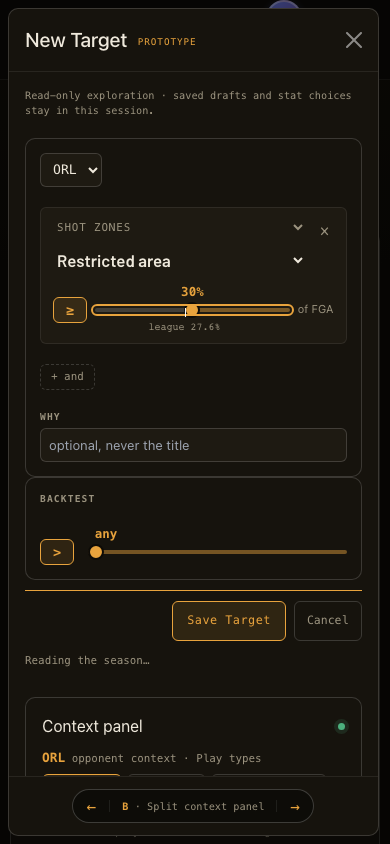
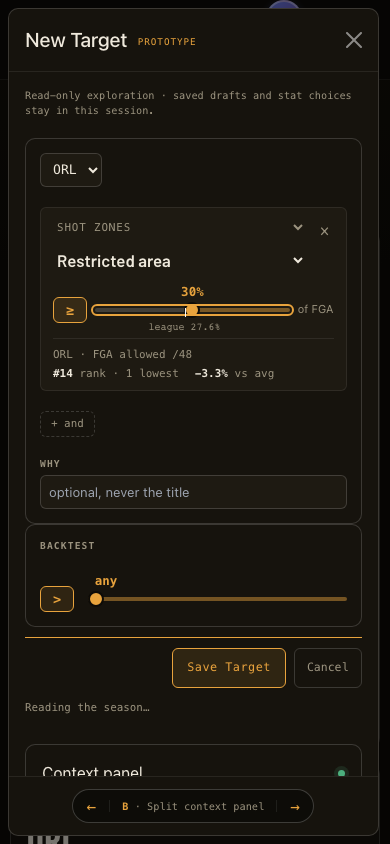
Add opponent rank to qualifier cards and keep minutes filter left

diff --git a/src/targets/TeamContextPrototype.js b/src/targets/TeamContextPrototype.js
@@ -1016,3 +1016,70 @@ export default function TeamContextPrototype({
     </>
   );
 }
+
+// Inline evidence is read independently of the browsing panel's selected category.
+export function QualifierOpponentContext({ team, opponent, qualifier, teamsLoading }) {
+  const category = {
+    play_types: 'Playtypes',
+    shot_zones: 'Zone Shooting',
+    assist_locations: 'Assists',
+    shot_types: 'Shooting Type',
+  }[qualifier.base];
+  const [profile, setProfile] = useState(null);
+  const [failed, setFailed] = useState(false);
+  useEffect(() => {
+    if (!team || !category) return undefined;
+    const controller = new AbortController();
+    setProfile(null);
+    setFailed(false);
+    apiClient
+      .get(getApiUrl('TEAM_STATS'), {
+        params: { team, category },
+        signal: controller.signal,
+      })
+      .then(({ data }) => setProfile(parseStats(data)))
+      .catch((error) => {
+        if (!isRequestCancelled(error)) setFailed(true);
+      });
+    return () => controller.abort();
+  }, [team, category]);
+  const row =
+    category &&
+    statRowsFor(category, profile).find(
+      (item) =>
+        item.targetBase === qualifier.base &&
+        item.targetSlice === qualifier.sliceKey &&
+        (qualifier.base !== 'shot_types' || item.rawKey === 'PTS'),
+    );
+  const metric =
+    qualifier.base === 'play_types'
+      ? 'PPP allowed'
+      : qualifier.base === 'shot_types'
+        ? 'Points allowed /48'
+        : qualifier.base === 'shot_zones'
+          ? 'FGA allowed /48'
+          : 'Assists allowed';
+  return (
+    <div className="target-qualifier-opponent" aria-label={`${opponent} opponent context`}>
+      <span className="target-qualifier-opponent-label">
+        {opponent} · {metric}
+      </span>
+      {row ? (
+        <>
+          <span title="League rank: 1 is lowest, 30 is highest">
+            <b>{Number.isFinite(row.rank) ? `#${Math.round(row.rank)}` : '—'}</b> rank · 1 lowest
+          </span>
+          <span>
+            <b>{formatLeagueComparison(category, row)}</b> vs avg
+          </span>
+        </>
+      ) : (
+        <span>
+          {failed || profile || (!team && !teamsLoading)
+            ? 'Context unavailable'
+            : 'Loading context…'}
+        </span>
+      )}
+    </div>
+  );
+}

diff --git a/src/targets/TargetContextPrototype.js b/src/targets/TargetContextPrototype.js
@@ -3,9 +3,9 @@ import { Modal } from 'react-bootstrap';
 import { useSearchParams } from 'react-router-dom';
 import TargetForm, { blankTargetDraft } from './TargetForm';
 import TargetLab from './TargetLab';
-import { TargetBacktestRows } from './TargetConditions';
 import {
   codeForTeam,
+  QualifierOpponentContext,
   qualifierFor,
   ReadControls,
   SourceNote,
@@ -172,7 +172,15 @@ function TargetContextLayouts({
       submitLabel={submitLabel}
       showActions={showActions}
       cancelLabel={cancelLabel}
-      showBacktestControls={!workbench}
+      qualifierContext={(qualifier) => (
+        <QualifierOpponentContext
+          key={`${draft.opponent}:${qualifier.base}`}
+          team={read.teams.find((team) => codeForTeam(team) === draft.opponent)}
+          opponent={draft.opponent}
+          teamsLoading={read.teamsState === 'loading'}
+          qualifier={qualifier}
+        />
+      )}
       highlightedQualifierIndex={highlightedQualifierIndex}
       onChange={onChange}
       onSubmit={onSubmit}
@@ -195,19 +203,6 @@ function TargetContextLayouts({
       draft={draft}
       workbench={workbench}
       sideBacktest={workbench}
-      backtestControls={
-        workbench && (
-          <section className="target-form-card" aria-label="Backtest">
-            <h2 className="target-section-heading">Backtest</h2>
-            <fieldset disabled={busy} className="target-form-fields">
-              <TargetBacktestRows
-                conditions={draft.conditions}
-                onChange={(conditions) => onChange({ conditions })}
-              />
-            </fieldset>
-          </section>
-        )
-      }
       immediateInitialPreview={immediateInitialPreview}
       preferences={preferences}
       onPreferencesChange={onPreferencesChange}

diff --git a/src/targets/TargetForm.js b/src/targets/TargetForm.js
@@ -105,7 +105,7 @@ export default function TargetForm({
   cancelLabel = 'Cancel',
   title,
   highlightedQualifierIndex = null,
-  showBacktestControls = true,
+  qualifierContext,
 }) {
   const { valid, problem, request } = describeDraft(draft);
   const baselines = useDietBaselines();
@@ -224,6 +224,7 @@ export default function TargetForm({
                 leagueShare={baselines.shares[qualifier.base]?.[qualifier.sliceKey]}
                 onChange={(patch) => patchQualifier(index, patch)}
               />
+              {qualifierContext?.(qualifier)}
               <button
                 type="button"
                 className="target-remove"
@@ -264,15 +265,13 @@ export default function TargetForm({
           </label>
         </div>
 
-        {showBacktestControls && (
-          <section className="target-form-card" aria-label="Backtest">
-            <span className="target-label target-section-label">Backtest</span>
-            <TargetBacktestRows
-              conditions={draft.conditions}
-              onChange={(conditions) => onChange({ conditions })}
-            />
-          </section>
-        )}
+        <section className="target-form-card" aria-label="Backtest">
+          <span className="target-label target-section-label">Backtest</span>
+          <TargetBacktestRows
+            conditions={draft.conditions}
+            onChange={(conditions) => onChange({ conditions })}
+          />
+        </section>
 
         {!valid && <p className="target-form-problem">{problem}</p>}
         {showActions && (

diff --git a/src/targets/TargetContextPrototype.css b/src/targets/TargetContextPrototype.css
@@ -386,9 +386,6 @@
 .target-context-backtest-column {
   min-width: 0;
 }
-.target-context-backtest-column > .target-form-card {
-  margin-bottom: 12px;
-}
 .target-context-backtest-column .target-lab-games {
   margin-top: 24px;
 }
@@ -401,4 +398,33 @@
 
 .target-workbench.target-context-edit-workbench {
   display: block;
+}
+
+.target-form .target-qualifier:has(.target-qualifier-opponent) {
+  padding-bottom: 10px;
+}
+.target-qualifier-opponent {
+  grid-column: 1 / -1;
+  display: flex;
+  flex-wrap: wrap;
+  align-items: baseline;
+  gap: 6px 16px;
+  border-top: 1px solid var(--ct-line);
+  padding-top: 9px;
+  margin-top: 5px;
+  color: var(--ct-dim);
+  font: 11px var(--ct-mono);
+}
+.target-qualifier-opponent-label {
+  flex: 1 1 150px;
+}
+.target-qualifier-opponent b {
+  color: var(--ct-text);
+  font-weight: 600;
+}
+
+@media (max-width: 600px) {
+  .target-qualifier-opponent-label {
+    flex: 1 0 100%;
+  }
 }

diff --git a/src/targets/TargetLab.js b/src/targets/TargetLab.js
@@ -33,7 +33,6 @@ export default function TargetLab({
   draft,
   workbench = false,
   sideBacktest = false,
-  backtestControls,
   immediateInitialPreview = false,
   children,
   preferences,
@@ -116,7 +115,6 @@ export default function TargetLab({
         <BacktestSampleProvider value={{ appearances: countAppearances(preview), stale }}>
           <div className="target-context-editor-column">{children}</div>
           <div className="target-context-backtest-column">
-            {backtestControls}
             {evidence}
             {games}
           </div>

diff --git a/docs/prototypes/target-composer-context.md b/docs/prototypes/target-composer-context.md
@@ -13,7 +13,7 @@ Throwaway continuation on `prototype/targets-team-context`, following the list-p
 - **A — Inline table:** a compact collapsible opponent-context table above the qualifiers.
 - **B — Split context panel:** opponent stats beside the form on desktop, stacked on a phone.
 
-The create modal offers both options. The edit route now shares one collapsible context panel beneath the qualifiers, closed initially, and places the complete backtest beside the editor: minutes controls, status, summary, and game rows. The selected draft opponent controls the stats. Adding a stat appends a qualifier with an empty threshold; selecting an existing qualifier highlights it without changing its threshold. Saves and stat selections stay in memory.
+The create modal offers both options. The edit route now shares one collapsible context panel beneath the qualifiers, closed initially, and keeps minutes controls on the left and backtest status, summary, and game rows on the right. Qualifier cards include inline opponent rank and percentage difference from league average. The selected draft opponent controls the stats. Adding a stat appends a qualifier with an empty threshold; selecting an existing qualifier highlights it without changing its threshold. Saves and stat selections stay in memory.
 
 Run `npm run prototype:team-context` with the normal development Firebase/API configuration.
 
@@ -62,3 +62,15 @@ Verified frontend `a12914147f7e8d2e950d38668d4751e8c789ac9c` plus this correctio
 Changing the relocated minutes slider to 20 triggered a successful real preview request with `conditions.player_minutes: 20` and returned the backtest to its up-to-date state on both viewports. Zero account writes; owned QA server stopped.
 
 Independent review confirmed the side layout, preserved sample provider, and unchanged normal/create rendering. Restored 12px spacing below the moved controls. On phones, editor actions intentionally remain with the editor before the stacked backtest; they still save the shared draft including minutes changes. Live capture confirms the moved slider renders correctly and updates its request.
+
+## Inline opponent evidence and left minutes filter
+
+User direction (unedited): “i want the backtest minutes filter to stay on the left, also, maybe have the opponent rank and percentage diff vs average on the actual card, it looks a bit stretched right now in the card, mayve thi s could make the spacing better”.
+
+Minutes filtering returns to the form on the left; backtest results remain on the right. Each qualifier card now includes an inline opponent metric label, rank, and relative percentage difference from league average in create and edit prototypes. Reads follow each qualifier and draft opponent independently of the context browser category. Play types use PPP allowed, shot types use points allowed per 48, zones use attempts allowed per 48, and assist locations use assist volume. Rank 1 means lowest; rank direction is visible on every card, including phones. This context is distinct from the player's diet-share threshold.
+
+Verified at frontend base `66b28ce` plus these changes in the prototype worktree. Live ORL desktop and phone checks confirm each qualifier has rank and difference, minutes is in the left editor, backtest results remain alongside on desktop, expansion does not displace results, and changing minutes still sends the correct preview request. No account writes or document overflow. Fresh screenshot filename: [inline opponent evidence](target-composer-context/edit-inline-rank-left-minutes.png).
+
+Full completion gate passed: lint, formatting, 683 unit tests, production build, 107 browser tests (2 deployment-only skips). Both create variants were captured with live authenticated data at desktop and phone widths. Phone card footers keep rank and difference together beneath the metric label. QA services stopped after capture.
+
+Cross-vendor review confirmed the requested layout and qualifier mapping. Fixed unavailable-team loading, preserved category data when changing a slice, pinned shot-type evidence to PTS, and made rank direction visible. Duplicate category reads across cards remain a deliberate throwaway-prototype limitation; request sharing is deferred.
